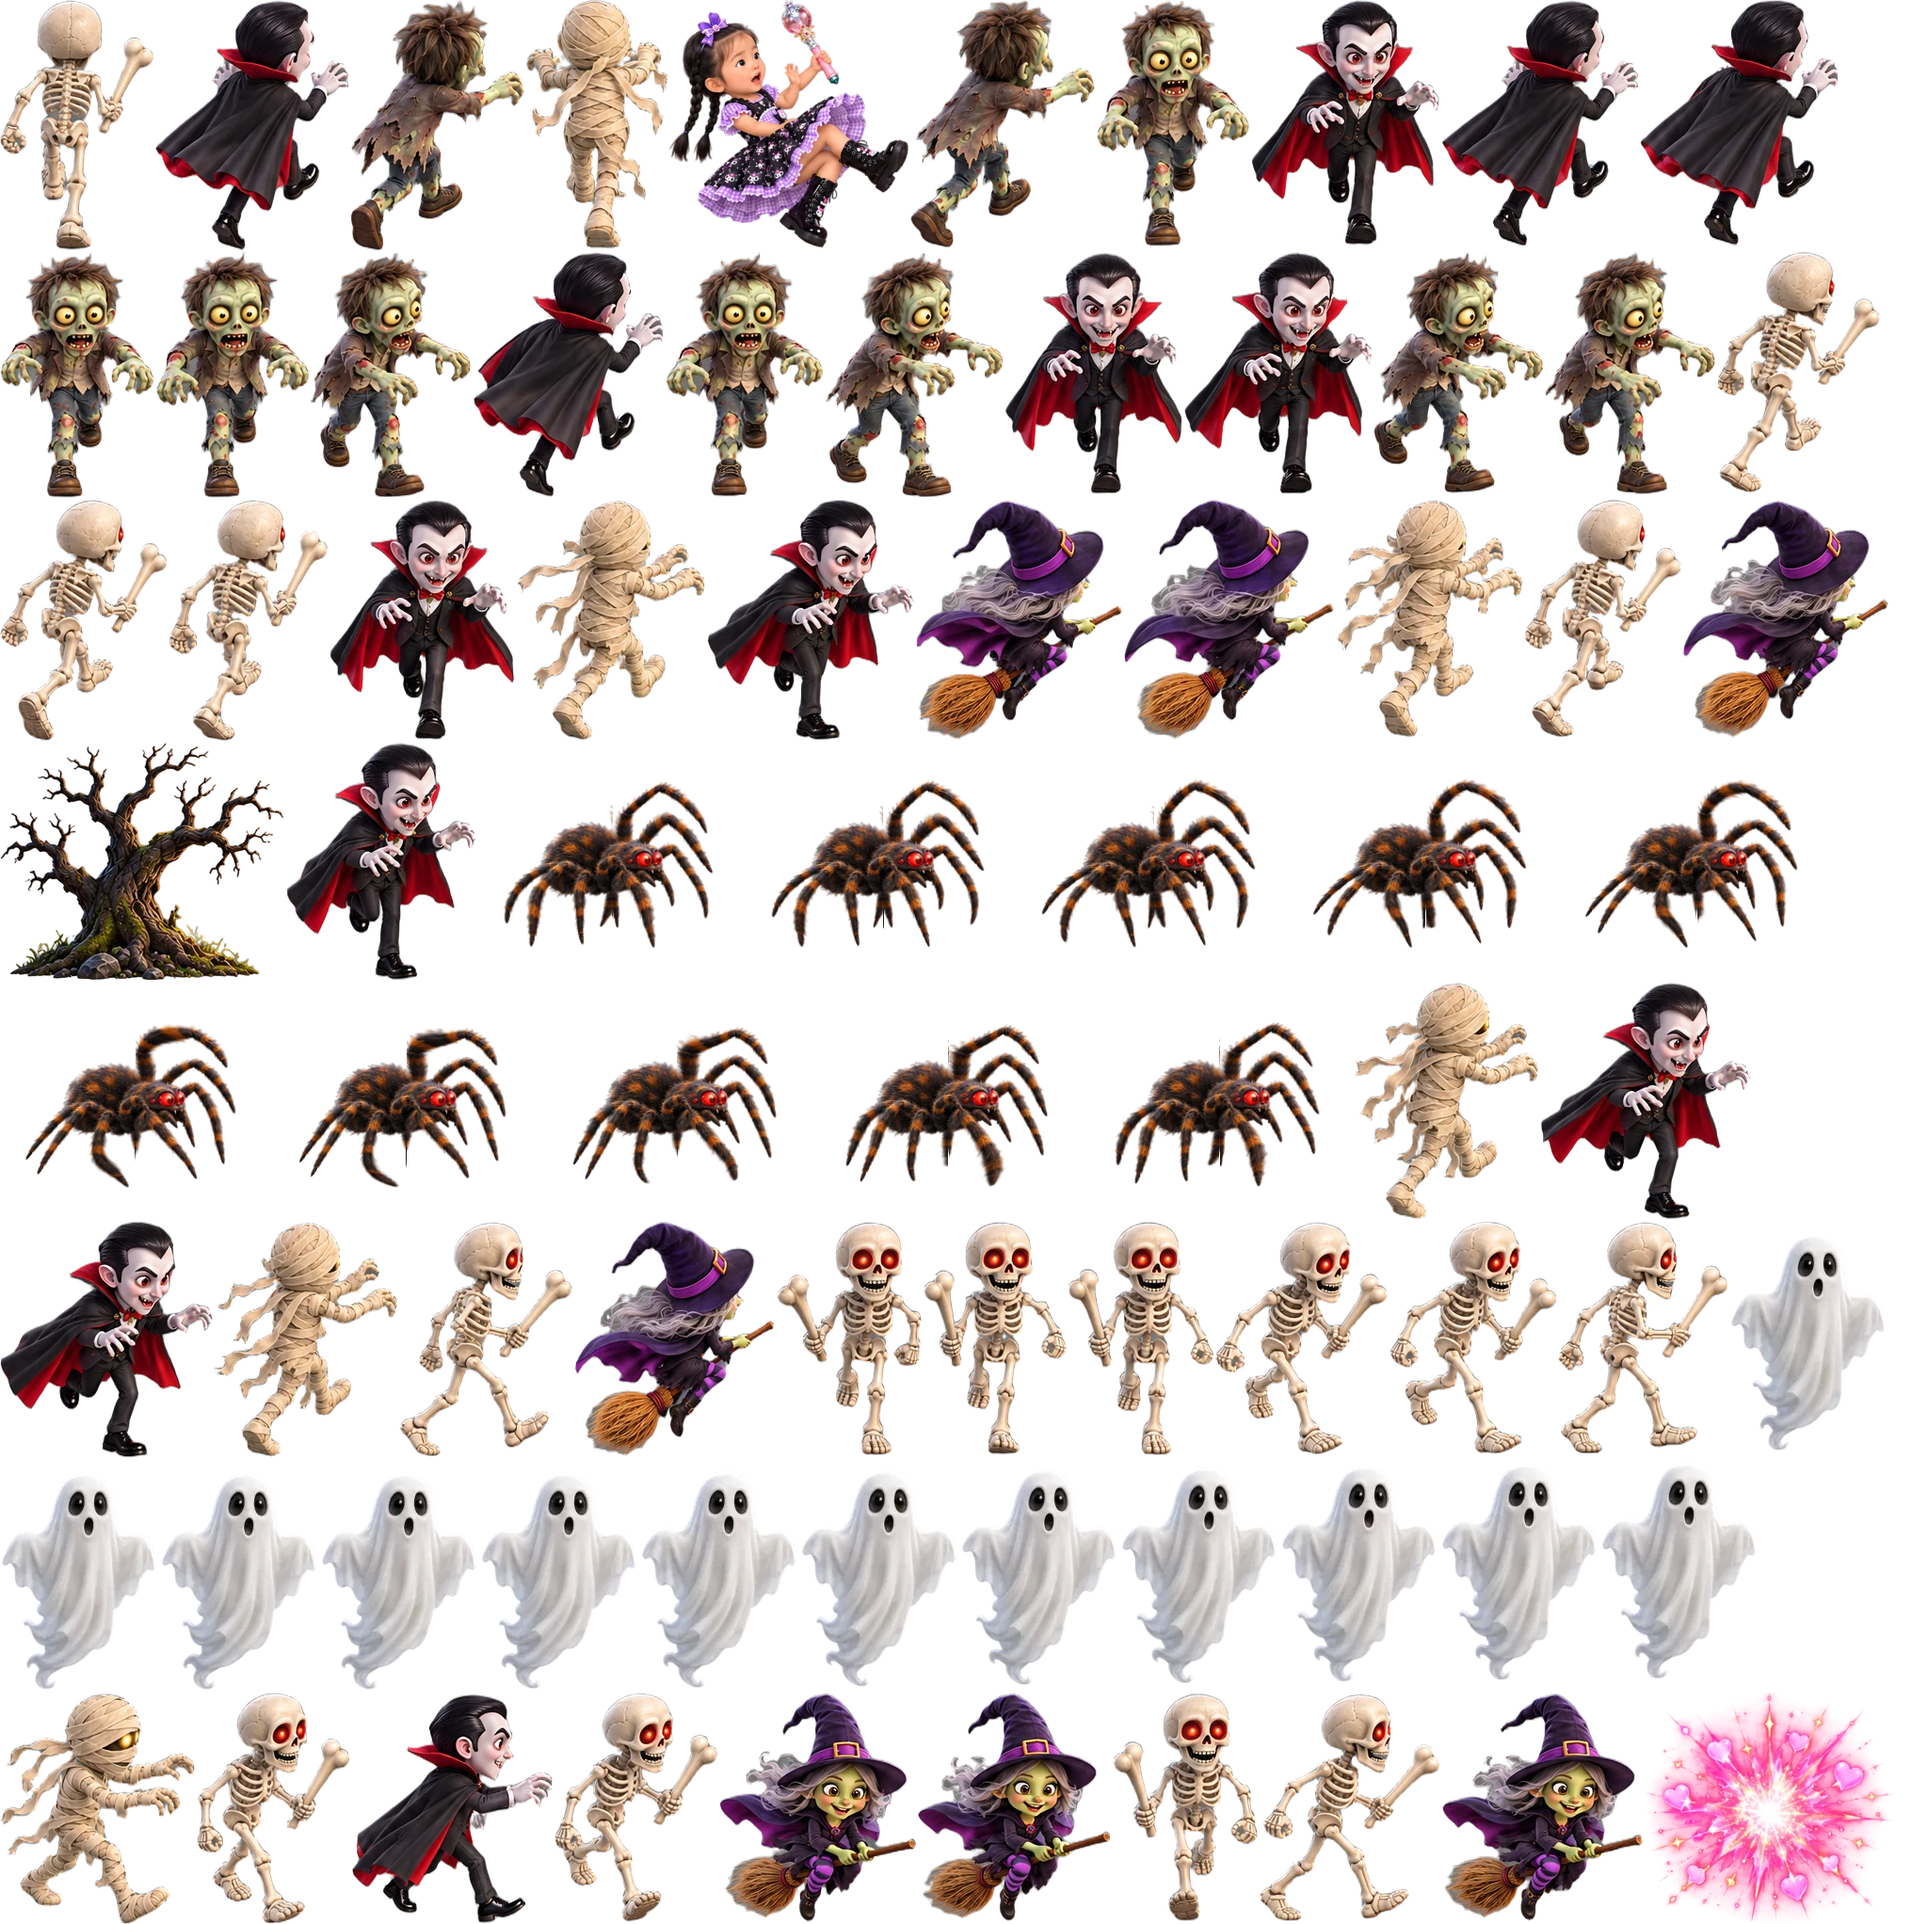
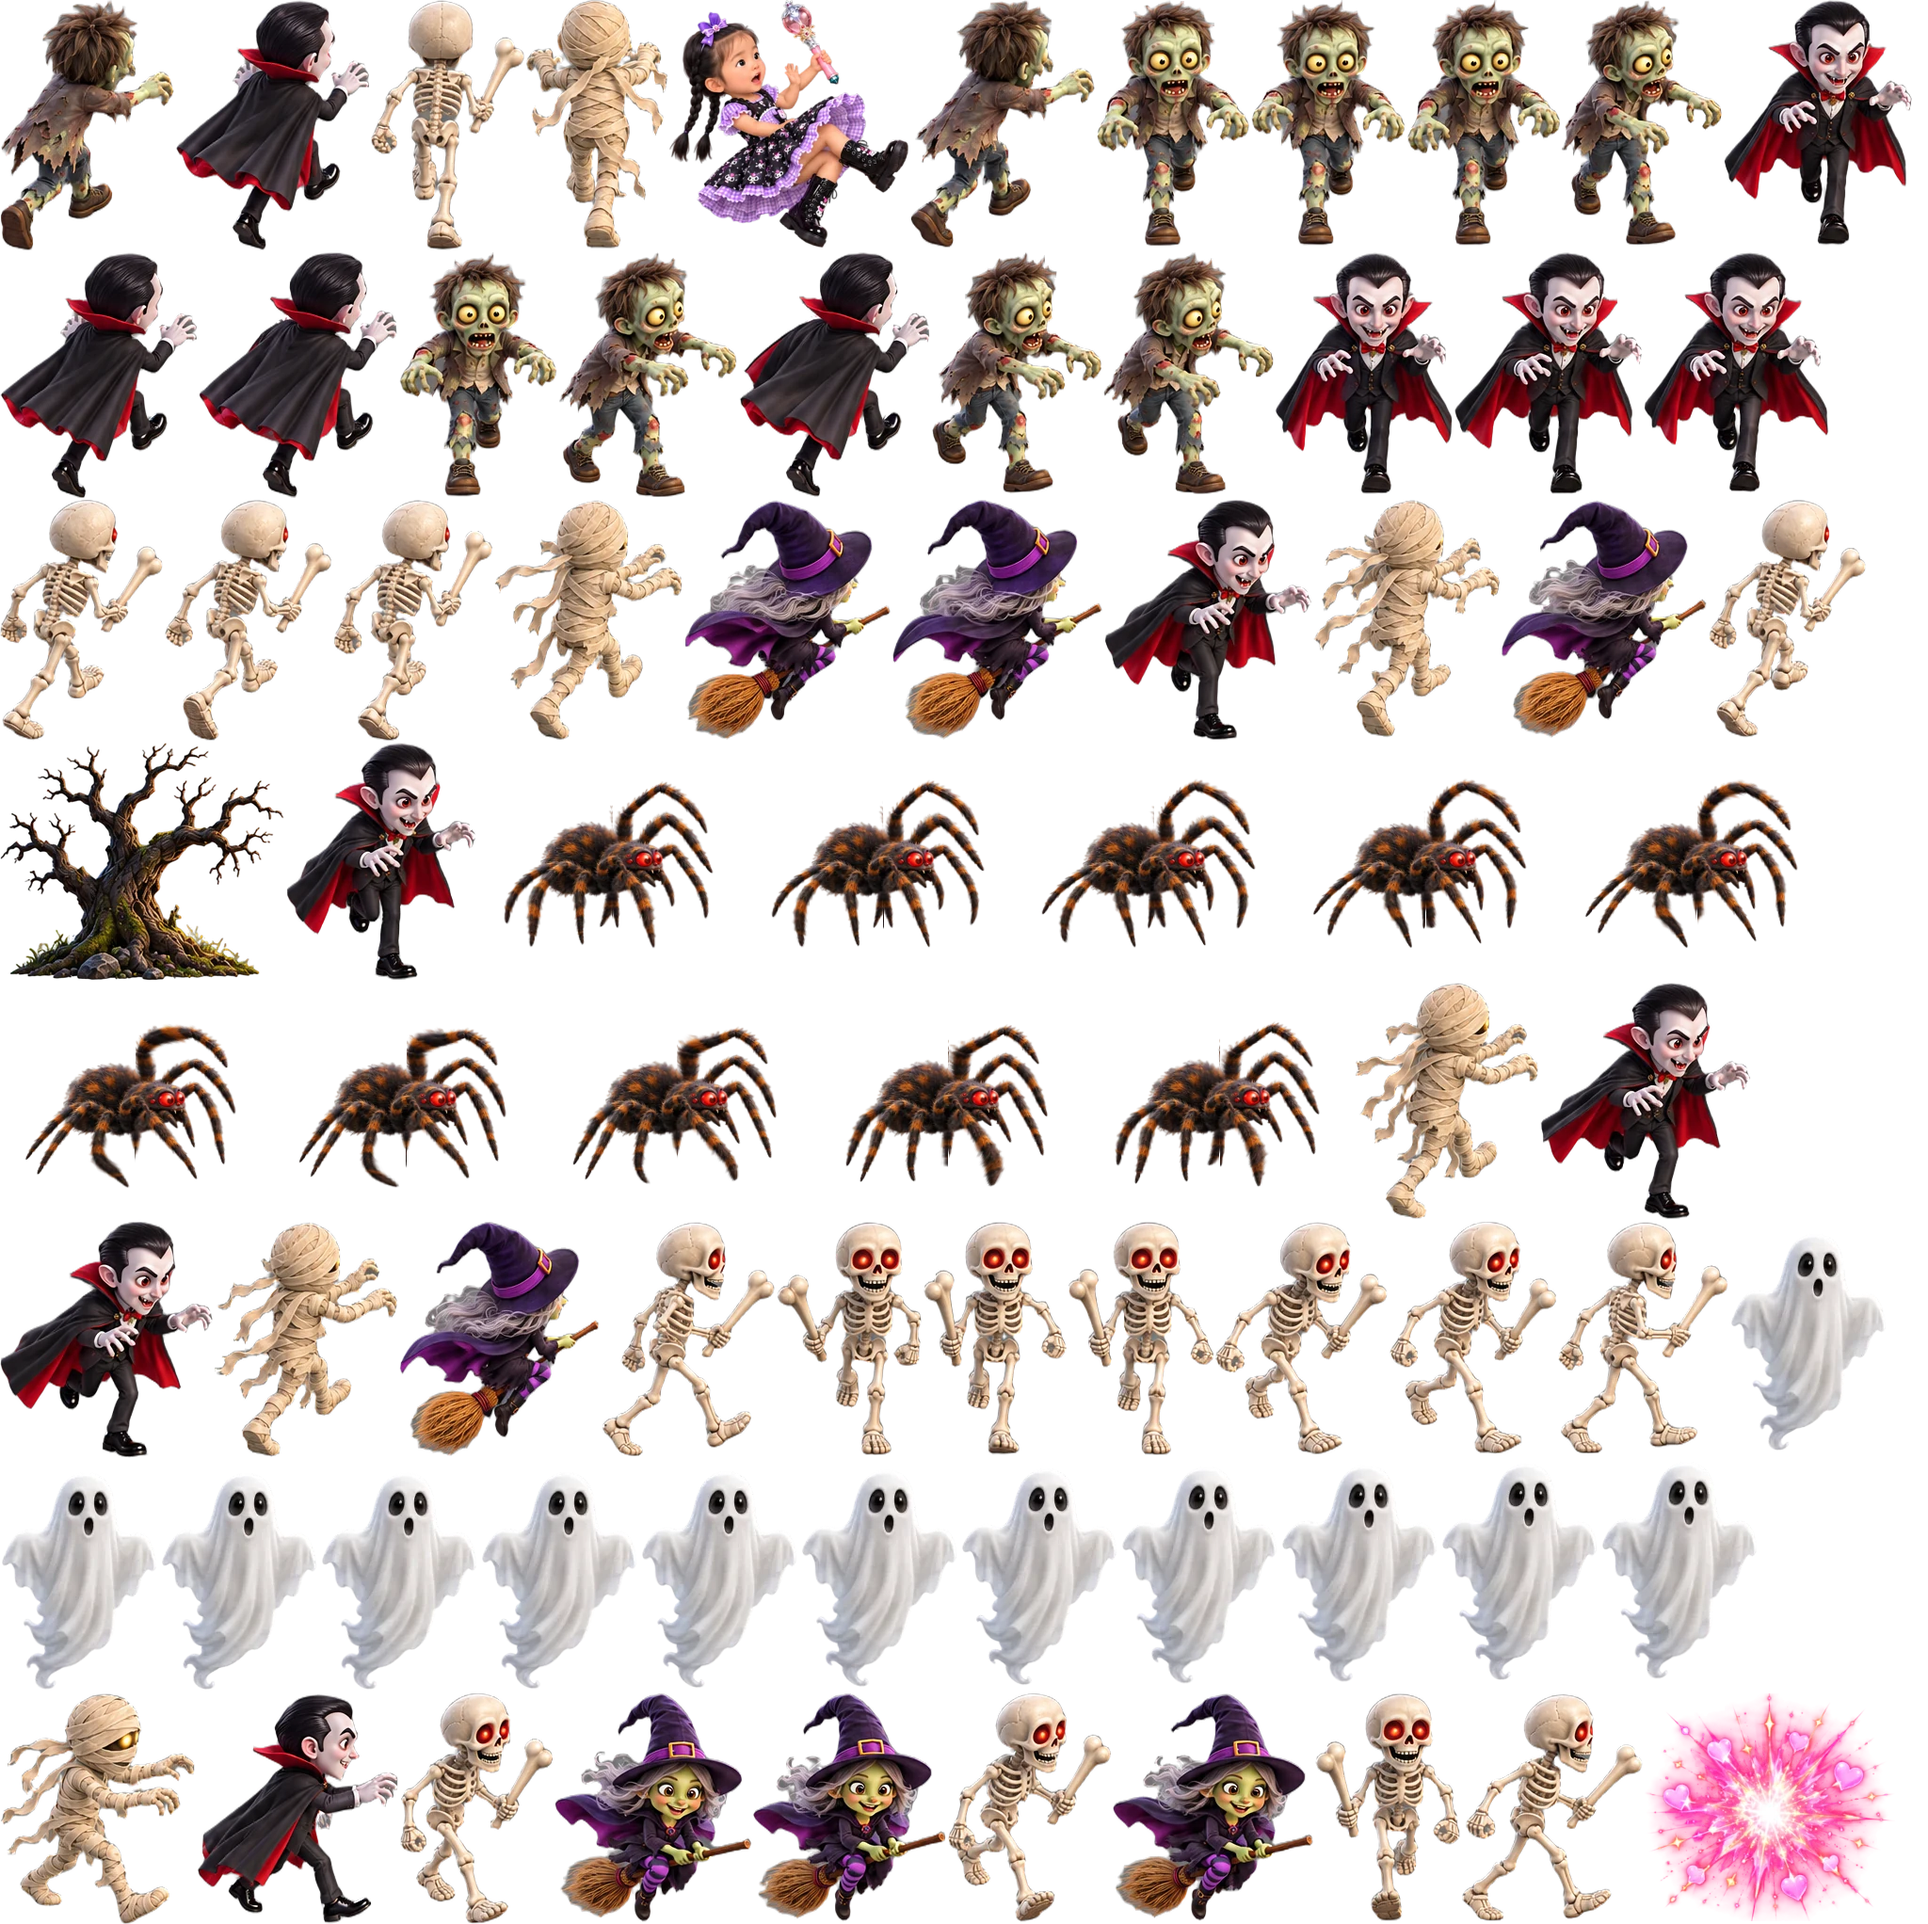
v3: hai bé giơ đũa khi bắn (tranh 8 hướng mới), đạn bay từ đầu đũa; Cafe và Coca to gấp rưỡi
Claude-Session: https://claude.ai/code/session_018CdmaGRbzjkocUF5TVUzxd

Changed region(s): [[0.0, 0.0, 1.0, 0.4007], [0.0938, 0.863, 0.8438, 1.0], [0.1875, 0.6164, 0.4062, 0.7705]]

diff --git a/index.html b/index.html
@@ -1042,8 +1042,17 @@
     }
     play("zap");
   }
+  // where the wand tip is, per facing (0 down .. 4 up, x mirrored when she faces left), relative to her feet;
+  // the bolt flies at BOLT_Z above the ground, so y here is ground-level (tip height - BOLT_Z)
+  const WAND = { g: [[42, 30], [55, 21], [63, 19], [64, 10], [45, 10]], s: [[64, 18], [74, 7], [83, 7], [75, 9], [40, 0]] };
+  function wandTip(hk, face, flip) { const w = (WAND[hk] || WAND.g)[clamp(face, 0, 4)]; return [w[0] * (flip ? -1 : 1), w[1]]; }
   function fireBolt(a, S) {
-    const x = P.x + Math.cos(a) * 46, y = P.y + Math.sin(a) * 30;
+    // from the wand tip, unless the target is behind her (then from her body, as the wand points the other way)
+    const fa = [Math.PI / 2, Math.PI / 4, 0, -Math.PI / 4, -Math.PI / 2][clamp(P.face, 0, 4)], fxv = Math.cos(fa) * (P.flip ? -1 : 1), fyv = Math.sin(fa);
+    const ahead = Math.cos(a) * fxv + Math.sin(a) * fyv > 0.2;
+    const [wx, wy] = ahead && dirN(`${hero}_cast_d${P.face}_w`) ? wandTip(hero, P.face, P.flip) : [Math.cos(a) * 46, Math.sin(a) * 30];
+    const x = P.x + wx, y = P.y + wy;
+    if (G.parts.length < 400) G.parts.push({ type: "fx", name: "fx_twinkle", x, y: y - BOLT_Z, sc: 0.5, life: 0.18, max: 0.18, grow: 1.2, vx: 0, vy: 0 });
     G.shots.push({ x, y, vx: Math.cos(a) * S.speed, vy: Math.sin(a) * S.speed, life: S.range / S.speed + 0.12, r: S.r, dmg: S.dmg, bounce: S.bounce, hit: S.bounce ? new Set() : null, elem: P.elem, hk: hero, sc: S.sc, kb: S.kb });
     netShot(x, y, a, S.sc);
   }
@@ -1707,7 +1716,7 @@
     for (const p of G.parts) {
       p.life -= dt;
       if (p.type === "ring") { p.r += p.vr * dt; continue; }
-      p.x += p.vx * dt; p.y += p.vy * dt;
+      p.x += (p.vx || 0) * dt; p.y += (p.vy || 0) * dt;
       if (p.g) p.vy += p.g * dt;
       if (p.type === "dust") { p.vx *= 0.92; p.vy *= 0.92; p.r += 20 * dt; }
     }
@@ -1926,6 +1935,9 @@
     for (const p of own ? [base] : [sk]) {
       const pre = `${p}_d${o.face}_`, n = dirN(pre);
       if (!n) continue;
+      // casting: the same walk with her wand arm pointing ahead (standing: one frame of it)
+      const cpre = `${p}_cast_d${o.face}_w`, cn = o.castT > 0 ? dirN(cpre) : 0;
+      if (cn) return [cpre + (o.moving ? Math.floor(o.dist / DIR_CYCLE * cn) % cn : 1 % cn), o.flip];
       if (o.moving) return [pre + (Math.floor(o.dist / DIR_CYCLE * n) % n), o.flip];
       return [FR[pre + "s"] ? pre + "s" : pre + "0", o.flip];
     }
@@ -2062,7 +2074,7 @@
       groundCircle(hero === "s" ? "fx_circle_s" : "fx_circle_g", P.x, P.y, 0.45 + 0.25 * k, 0.5 + 0.4 * k, G.t);
     }
     drawHeroSprite(hero, G.ult ? fr(mySkin() + "_jump", hero + "_jump") : fn, P.x, P.y, P.z, flip, blink ? 0.45 : 1, G.ult ? G.ult.t : 0, stepPose(P, P.moving && !G.ult ? P.dist : -1));
-    if (P.castT > 0.15 && !G.ult) glow(P.x + (flip ? -40 : 40), P.y - 130, 50, P.elem ? ELEM[P.elem].rgb : HD().rgb, 0.55);
+    if (P.castT > 0.15 && !G.ult) { const [wx, wy] = wandTip(hero, P.face, flip); glow(P.x + wx, P.y + wy - BOLT_Z, 55, P.elem ? ELEM[P.elem].rgb : HD().rgb, 0.55); }
     if (P.slowT > 0) drawWeb(P.x, P.y - 70, 40, Math.min(1, P.slowT));
   }
   function drawPartner() {
